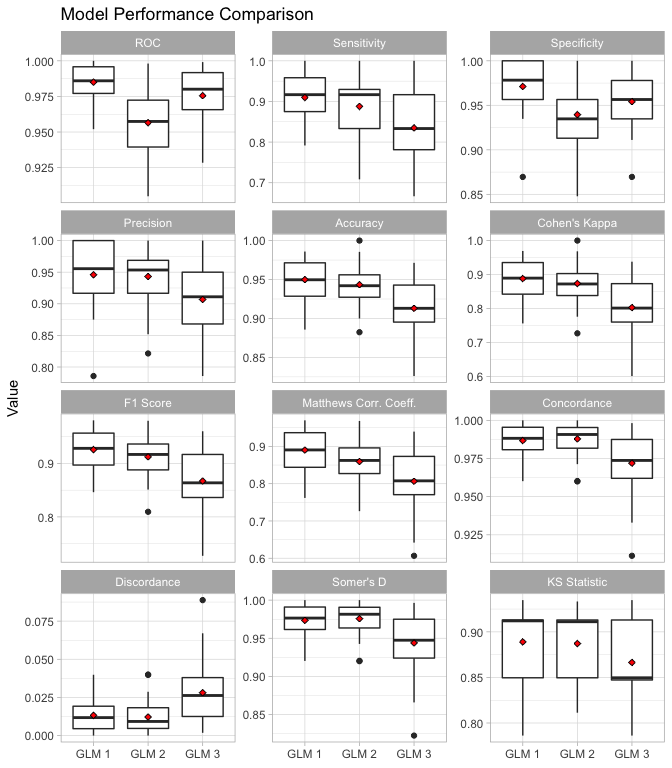
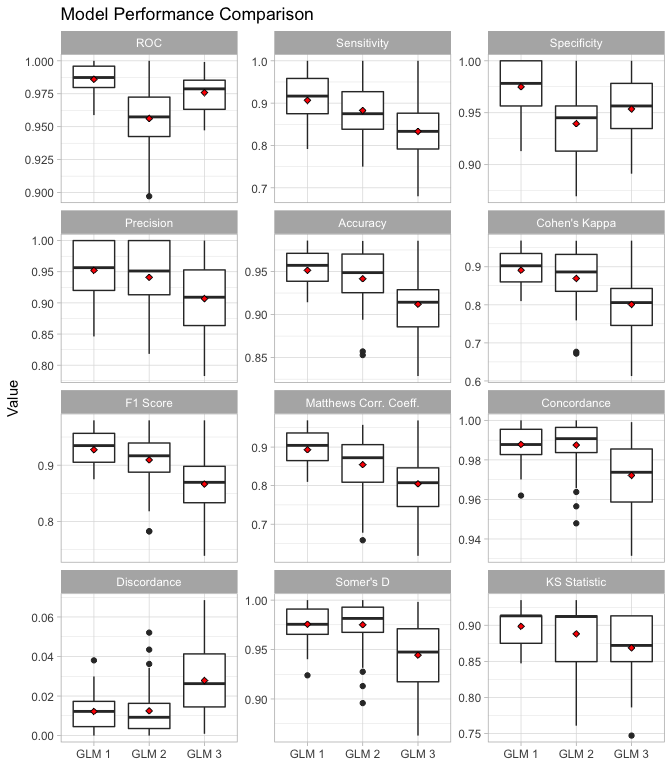
update README

diff --git a/README.md b/README.md
@@ -65,12 +65,12 @@ compute_mod_results(glm_fit_1, "GLM 1") %>% head()
 #> # A tibble: 6 x 14
 #>   Model Resample   ROC Sensitivity Specificity Precision Accuracy
 #>   <chr> <chr>    <dbl>       <dbl>       <dbl>     <dbl>    <dbl>
-#> 1 GLM 1 Fold01.… 0.981       0.958       0.957     0.92     0.957
-#> 2 GLM 1 Fold01.… 0.999       0.958       1         1        0.986
-#> 3 GLM 1 Fold01.… 0.984       0.917       0.978     0.957    0.957
-#> 4 GLM 1 Fold01.… 0.964       0.958       0.935     0.885    0.943
-#> 5 GLM 1 Fold02.… 0.967       0.8         0.978     0.952    0.914
-#> 6 GLM 1 Fold02.… 0.989       0.833       0.978     0.952    0.929
+#> 1 GLM 1 Fold01.… 0.989       0.875       0.957     0.913    0.929
+#> 2 GLM 1 Fold01.… 0.964       0.917       0.913     0.846    0.914
+#> 3 GLM 1 Fold01.… 0.970       0.917       0.978     0.957    0.957
+#> 4 GLM 1 Fold01.… 0.976       0.875       0.957     0.913    0.929
+#> 5 GLM 1 Fold02.… 0.993       0.875       0.978     0.955    0.943
+#> 6 GLM 1 Fold02.… 0.984       1           0.978     0.96     0.986
 #> # ... with 7 more variables: `Cohen's Kappa` <dbl>, `F1 Score` <dbl>,
 #> #   `Matthews Corr. Coeff.` <dbl>, Concordance <dbl>, Discordance <dbl>,
 #> #   `Somer's D` <dbl>, `KS Statistic` <dbl>
@@ -84,12 +84,12 @@ mods_results %>% head()
 #> # A tibble: 6 x 14
 #>   Model Resample   ROC Sensitivity Specificity Precision Accuracy
 #>   <chr> <chr>    <dbl>       <dbl>       <dbl>     <dbl>    <dbl>
-#> 1 GLM 1 Fold01.… 0.981       0.958       0.957     0.92     0.957
-#> 2 GLM 1 Fold01.… 0.999       0.958       1         1        0.986
-#> 3 GLM 1 Fold01.… 0.984       0.917       0.978     0.957    0.957
-#> 4 GLM 1 Fold01.… 0.964       0.958       0.935     0.885    0.943
-#> 5 GLM 1 Fold02.… 0.967       0.8         0.978     0.952    0.914
-#> 6 GLM 1 Fold02.… 0.989       0.833       0.978     0.952    0.929
+#> 1 GLM 1 Fold01.… 0.989       0.875       0.957     0.913    0.929
+#> 2 GLM 1 Fold01.… 0.964       0.917       0.913     0.846    0.914
+#> 3 GLM 1 Fold01.… 0.970       0.917       0.978     0.957    0.957
+#> 4 GLM 1 Fold01.… 0.976       0.875       0.957     0.913    0.929
+#> 5 GLM 1 Fold02.… 0.993       0.875       0.978     0.955    0.943
+#> 6 GLM 1 Fold02.… 0.984       1           0.978     0.96     0.986
 #> # ... with 7 more variables: `Cohen's Kappa` <dbl>, `F1 Score` <dbl>,
 #> #   `Matthews Corr. Coeff.` <dbl>, Concordance <dbl>, Discordance <dbl>,
 #> #   `Somer's D` <dbl>, `KS Statistic` <dbl>
@@ -135,14 +135,14 @@ The compute\_mod\_results() function works with a single caret model object and 
 ``` r
 compute_mod_results(lm_fit_1, "LM 1") %>% head()
 #> # A tibble: 6 x 6
-#>   Model Resample     RMSE       R2   MAE  MAPE
-#>   <chr> <chr>       <dbl>    <dbl> <dbl> <dbl>
-#> 1 LM 1  Fold01.Rep1 0.783 0.0564   0.637 10.9 
-#> 2 LM 1  Fold01.Rep2 0.968 0.262    0.845 14.3 
-#> 3 LM 1  Fold01.Rep3 0.688 0.000850 0.582  9.98
-#> 4 LM 1  Fold01.Rep4 0.677 0.0242   0.593 10.2 
-#> 5 LM 1  Fold02.Rep1 0.907 0.00114  0.774 13.0 
-#> 6 LM 1  Fold02.Rep2 0.796 0.0401   0.662 11.3
+#>   Model Resample     RMSE      R2   MAE  MAPE
+#>   <chr> <chr>       <dbl>   <dbl> <dbl> <dbl>
+#> 1 LM 1  Fold01.Rep1 0.859 0.0139  0.671 11.5 
+#> 2 LM 1  Fold01.Rep2 0.909 0.00499 0.740 12.5 
+#> 3 LM 1  Fold01.Rep3 0.775 0.00182 0.641 11.4 
+#> 4 LM 1  Fold01.Rep4 0.833 0.0842  0.691 12.0 
+#> 5 LM 1  Fold02.Rep1 0.833 0.0519  0.694 11.8 
+#> 6 LM 1  Fold02.Rep2 0.643 0.132   0.530  9.71
 ```
 
 The all\_mod\_results() function works with multiple caret model objects and computes their model performance results:
@@ -151,14 +151,14 @@ The all\_mod\_results() function works with multiple caret model objects and com
 mods_results <- all_mod_results(list(lm_fit_1, lm_fit_2, lm_fit_3), c("LM 1", "LM 2", "LM 3"))
 mods_results %>% head()
 #> # A tibble: 6 x 6
-#>   Model Resample     RMSE       R2   MAE  MAPE
-#>   <chr> <chr>       <dbl>    <dbl> <dbl> <dbl>
-#> 1 LM 1  Fold01.Rep1 0.783 0.0564   0.637 10.9 
-#> 2 LM 1  Fold01.Rep2 0.968 0.262    0.845 14.3 
-#> 3 LM 1  Fold01.Rep3 0.688 0.000850 0.582  9.98
-#> 4 LM 1  Fold01.Rep4 0.677 0.0242   0.593 10.2 
-#> 5 LM 1  Fold02.Rep1 0.907 0.00114  0.774 13.0 
-#> 6 LM 1  Fold02.Rep2 0.796 0.0401   0.662 11.3
+#>   Model Resample     RMSE      R2   MAE  MAPE
+#>   <chr> <chr>       <dbl>   <dbl> <dbl> <dbl>
+#> 1 LM 1  Fold01.Rep1 0.859 0.0139  0.671 11.5 
+#> 2 LM 1  Fold01.Rep2 0.909 0.00499 0.740 12.5 
+#> 3 LM 1  Fold01.Rep3 0.775 0.00182 0.641 11.4 
+#> 4 LM 1  Fold01.Rep4 0.833 0.0842  0.691 12.0 
+#> 5 LM 1  Fold02.Rep1 0.833 0.0519  0.694 11.8 
+#> 6 LM 1  Fold02.Rep2 0.643 0.132   0.530  9.71
 ```
 
 The plot\_mod\_results() function produces a box plot of the models performance results:
@@ -204,10 +204,46 @@ The truncate\_data() function will truncate univariate outliers as follows:
 After truncation, this is what the data will look like:
 
 ``` r
-mydata2 <- truncate_data(mydata)
-ggplot(gather(mydata2, key, value), aes(key, value)) + geom_boxplot()
+mydata_truncated <- truncate_data(mydata)
+ggplot(gather(mydata_truncated, key, value), aes(key, value)) + geom_boxplot()
 ```
 
 <img src="man/figures/README-example_continued-1.png" width="100%" />
 
-Note new data (eg. test data), can be truncated using the training data quartile values:
+Note that new data (eg. test data), can be truncated using the training data quartile values:
+
+Let's make some test data and draw a box plot:
+
+``` r
+mydata_test <- tibble(a=(c(0,11,12, seq(70,90,2), 50, 110)),
+                      b=(c(-10,20,25, seq(20,30,1), 50, 60)),
+                      c=(c(25,11,12, seq(25,35,1), 104, 90)),
+                      d=(c(-5,-12,12, seq(15,20,0.5), 50, 100)))
+
+ggplot(gather(mydata_test, key, value), aes(key, value)) + geom_boxplot()
+```
+
+<img src="man/figures/README-unnamed-chunk-12-1.png" width="100%" />
+
+Let's get the quartiles of our original data:
+
+``` r
+mydata_quartiles <- get_quartiles(mydata)
+mydata_quartiles
+#> # A tibble: 4 x 5
+#>   Key            a     b     c     d
+#>   <chr>      <dbl> <dbl> <dbl> <dbl>
+#> 1 Quartile 1  57.5  11.8  30.8 20.4 
+#> 2 Quartile 2  75    14.5  34.5 22.2 
+#> 3 Quartile 3  82.5  18.2  38.2 24.1 
+#> 4 IQR         25     6.5   7.5  3.75
+```
+
+Let's use the quartiles of our original data to truncate the test data and plot the test data after truncation:
+
+``` r
+mydata_test_truncated <- truncate_data(mydata_test, mydata_quartiles)
+ggplot(gather(mydata_test_truncated, key, value), aes(key, value)) + geom_boxplot()
+```
+
+<img src="man/figures/README-unnamed-chunk-14-1.png" width="100%" />
